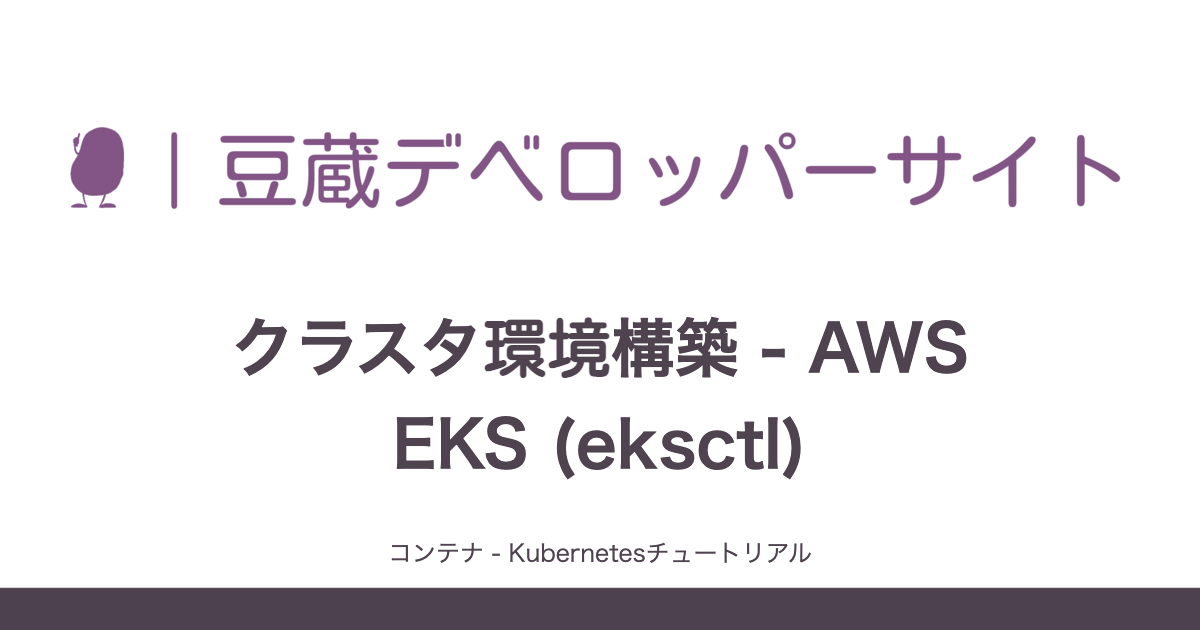
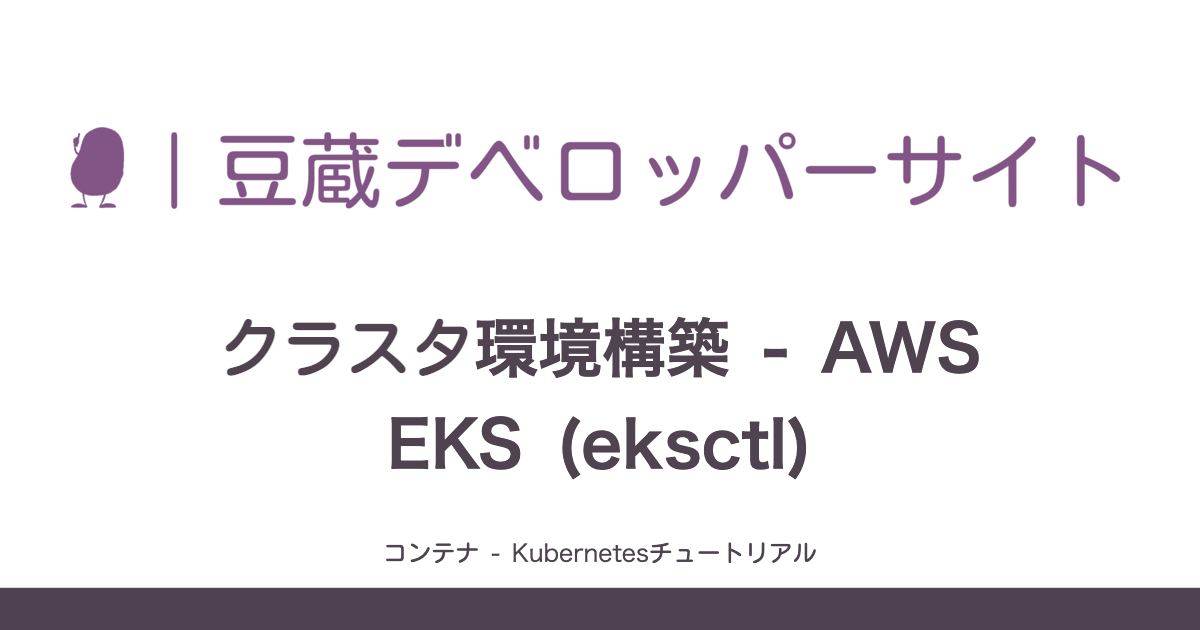
Add blog reviewing PR on GitHub (#208)
* Add blog reviewing PR on GitHub

* Add OGP images for social media

* update

* Add OGP images for social media

diff --git a/src/posts/blogs/2022/0629_reviewing-pr-on-github.md b/src/posts/blogs/2022/0629_reviewing-pr-on-github.md
@@ -1,0 +1,102 @@
+---
+title: GitHub における PR レビュープロセス - conversation の活用
+author: masahiro-kondo
+date: 2022-06-29
+tags: [GitHub]
+---
+
+GitHub の PR(Pull Request) レビューのプロセスは、開発チームによってバリエーションはあると思いますが、おおよそ次のようになると思います。
+
+```mermaid
+flowchart TB
+subgraph レビューイ
+  ブランチ作成-->コード修正-->PR作成-->レビュアーアサイン
+  subgraph レビュー対応
+    コメント確認-->コメント箇所修正-->rep[conversation リプライ]
+  end
+  レビュー対応-->再レビューリクエスト
+end
+subgraph レビュアー
+  レビュー-->CH{Conversation<br>がない or<br>全て resolved}-->|yes|approve-->マージ
+  CH-->|no|RC[Request changes]
+  subgraph レビュー
+    cv[インラインコメント<br>conversation 開始]
+  end
+  subgraph 再レビュー
+    rcv[修正箇所確認<br>conversation resolve<br> or リプライ]
+  end
+end
+RC-->レビュー対応
+レビュアーアサイン-->レビュー
+再レビューリクエスト-->再レビュー-->CH
+```
+
+レビューイは PR を作って、レビュアーをアサインし、アサインされたレビュアーが、ソースコードにインラインコメントしてレビューを完了します。レビューイは指摘があれば対応、再レビューリクエストし、レビュアーの再レビューで問題なければ承認(approve)、マージという流れです。
+
+:::info
+このフローではレビュアーが approve 後にマージしていますが、approve 後であれば、レビューイがマージしても構いません。特にレビュアーが複数の場合は、レビューイがマージする方が分かりやすいでしょう。
+
+また、このフローでは PR 作成してすぐにレビュアーアサインしていますが、Draft で PR を作成し準備ができるまで、レビュアーのアサインやレビュー自体ができない状態にすることも可能です[^1]。
+
+[^1]: Draft の PR は Organization と Public リポジトリで利用可能です。
+
+![](https://i.gyazo.com/04856266b4698f7fd8d42d7337d01e12.png)
+
+Draft の PR で準備が完了したら、`Ready for review` をクリックしてレビュアーをアサイン可能にします。
+
+![](https://i.gyazo.com/6177e5cd631f1116dca717d0c799762e.png)
+:::
+
+フローに登場する、コメントを起点とする conversation について少し詳しめに説明します。
+
+GitHub のレビューでは、コードにインラインでコメントしますが、PRに対して最初のコメントを記入し、`Start a review` ボタンをクリックすることでレビュー中状態に移行します。
+
+![](https://i.gyazo.com/5078c72d5468ac3a5f7586eacec69e12.png)
+
+インラインコメントは、即時にレビューイに開示されるのではなく、Pending 状態になり、レビューを完了するまでは、レビュアーにのみ見えています。レビュー中はコメントを何度編集しても edited のようなマークはつきません。
+
+![](https://i.gyazo.com/5a7470e15b8131d1aa887a58865a3d00.png)
+
+コードに対する1つのコメントを起点としたコメント-リプライのセットが1つの conversation として管理されます。
+
+レビュアーはコメントの記入が終わったら、`Finish your review` をクリックしてレビュー完了のコメントを残すとともに、ラジオボタンから、レビュー結果を選択します。
+
+![](https://i.gyazo.com/59458e7f43230ff09d381e3c4a417e97.png)
+
+一人のレビュアーにとっては、PR(アサイン後)の状態は以下のように遷移します。
+```mermaid
+flowchart TB
+未レビュー-->|最初のコメント記入|レビュー中
+レビュー中-->|Finish - Comment|comp[レビュー完了-Comment]
+レビュー中-->|Finish - Approve|comp1[レビュー完了-Approve]
+レビュー中-->|Finish - Request changes|comp2[レビュー完了-Request changes]
+```
+
+Approve は PR を承認した状態で、レビュアーの右にチェックマークが付きます。
+
+![](https://i.gyazo.com/1a8bc6f072accae3bbac593c018ec3b3.png)
+
+Request changes はレビューイに PR の修正を要求、Comment は単にコメントして完了です。いずれも、レビュアーの右に状態とともに、`Re-request review` のリロードのようなボタンが表示されます。
+
+![](https://i.gyazo.com/dcdcd51722f3604f3df7da9540e8800e.png)
+
+レビューイは、approve でない場合はコードを修正し push した上で conversation にリプライすることでレビュアーに対応内容を返信します。レビュアーは再レビュー時に conversation と修正箇所を個別に確認し、問題なければ resolve します[^2]。
+
+[^2]: スクリーンショットはすでに resolve した conversation を開いたものなので、ボタンが Unresolve になっています。
+
+![](https://i.gyazo.com/688f38a53646010b84236231188415bf.jpg)
+
+Conversation が全て resolve されるとレビュー完了で approve ということになります。
+
+![](https://i.gyazo.com/9b95d7e1833f6c184920b1850922edb7.png)
+
+つまり、レビューとその対応の中で、
+
+- レビューイはコードを修正するだけでなく、conversation にリプライする
+- レビュアーはリプライとコード修正を確認して問題なければ、conversation を resolve する
+
+のように conversation 単位でやり取りを完結するようにします。
+
+conversation にリプライせず、コードを push しただけで再レビュー依頼をする人がよくいますが、レビュアーからすると修正されたのか、修正されていない場合コメントを見逃しているのか、それとも修正不要と判断したのか、などがぱっとわかりません。指摘箇所が多い場合はかなりの労力で、無駄に再レビューの回数も増えたりします。
+
+conversation の存在はあまり意識していない人も多いかもしれませんが、このように対話が成立するように使うとレビューの進捗が分かりやすく、レビューイ、レビュアーがお互いにストレスなく作業できると思います。
